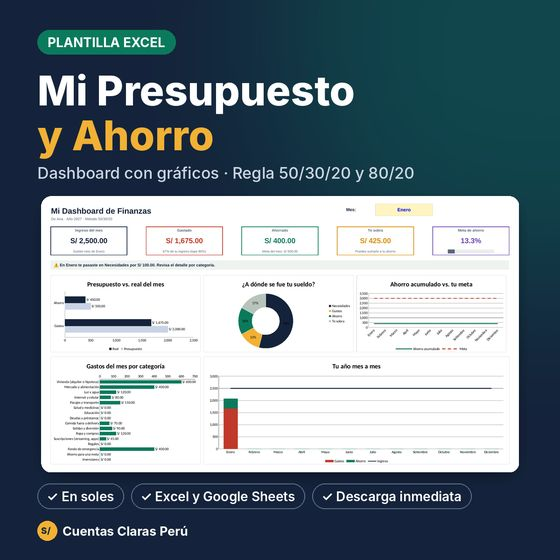
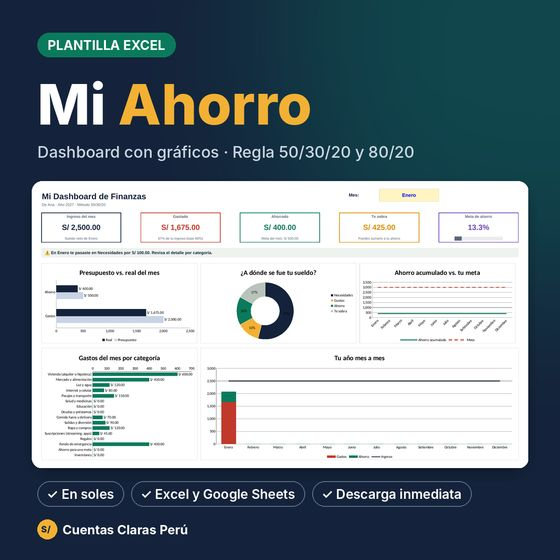
Renombra la plantilla a Mi Ahorro
Claude-Session: https://claude.ai/code/session_01QsUTepXjdCfjitVXFbThcR

Changed region(s): [[0.0304, 0.0304, 0.9714, 0.9714]]

diff --git a/guias/liquidacion-por-renuncia.html b/guias/liquidacion-por-renuncia.html
@@ -67,7 +67,7 @@
   <details><summary>¿Me pagan liquidación si renuncio?</summary><p>Sí. Renunciar no te quita la CTS, la gratificación ni las vacaciones que acumulaste. Lo único que no te toca al renunciar es la indemnización por despido.</p></details><details><summary>¿Hasta cuándo puedo reclamar?</summary><p>Tienes cuatro años desde tu último día de trabajo para reclamar beneficios impagos. Mientras antes reclames, más fácil es reunir las pruebas.</p></details><details><summary>¿Qué pasa si trabajé en una pequeña empresa o microempresa?</summary><p>Los montos cambian. En una pequeña empresa la CTS y la gratificación son la mitad y las vacaciones son de 15 días por año. En una microempresa no hay CTS ni gratificación. Nuestra calculadora tiene esas opciones.</p></details><details><summary>¿Tengo que firmar la liquidación si no estoy de acuerdo?</summary><p>Puedes firmarla indicando que la recibes "en disconformidad", así conservas tu derecho a reclamar la diferencia.</p></details>
 
   <section class="producto" aria-label="Plantilla de presupuesto">
-    <img src="../img/plantilla-presupuesto.jpg" alt="Plantilla Mi Presupuesto y Ahorro con dashboard" width="280" height="280" loading="lazy">
+    <img src="../img/plantilla-presupuesto.jpg" alt="Plantilla Mi Ahorro con dashboard" width="280" height="280" loading="lazy">
     <div class="producto-txt">
       <span class="g-tag">Plantilla Excel</span>
       <h2>Organiza tu sueldo con un dashboard</h2>

diff --git a/guias/gratificacion-diciembre-2026.html b/guias/gratificacion-diciembre-2026.html
@@ -70,7 +70,7 @@
   <details><summary>¿Me toca gratificación si renuncio antes de diciembre?</summary><p>Sí. Se llama gratificación trunca y te la pagan en tu liquidación, por cada mes completo trabajado en el semestre. Necesitas al menos un mes completo.</p></details><details><summary>¿Si trabajo con recibos por honorarios me toca?</summary><p>No, porque no estás en planilla. Pero si en la práctica cumples horario, recibes órdenes y trabajas solo para esa empresa, podrías tener una relación laboral encubierta y reclamarla ante SUNAFIL.</p></details><details><summary>¿Las faltas o los descansos médicos me restan?</summary><p>Las vacaciones y los descansos médicos pagados cuentan como tiempo trabajado. Las faltas injustificadas pueden reducir el monto.</p></details><details><summary>¿Qué pasa si mi sueldo cambió durante el semestre?</summary><p>Se usa el sueldo que tienes en el mes en que te pagan la gratificación.</p></details>
 
   <section class="producto" aria-label="Plantilla de presupuesto">
-    <img src="../img/plantilla-presupuesto.jpg" alt="Plantilla Mi Presupuesto y Ahorro con dashboard" width="280" height="280" loading="lazy">
+    <img src="../img/plantilla-presupuesto.jpg" alt="Plantilla Mi Ahorro con dashboard" width="280" height="280" loading="lazy">
     <div class="producto-txt">
       <span class="g-tag">Plantilla Excel</span>
       <h2>Organiza tu sueldo con un dashboard</h2>

diff --git a/guias/cts-como-calcular.html b/guias/cts-como-calcular.html
@@ -69,7 +69,7 @@
   <details><summary>¿Puedo retirar mi CTS?</summary><p>Las reglas de retiro cambian seguido por leyes temporales. Consulta en tu banco o caja cuánto puedes retirar hoy. Si te quedas sin trabajo, puedes retirar el total con la constancia de cese que te entrega tu empresa.</p></details><details><summary>¿Puedo elegir el banco?</summary><p>Sí. Tú eliges el banco o caja y se lo comunicas a tu empresa. También puedes cambiar tu CTS a otra entidad más adelante.</p></details><details><summary>¿Las horas extras cuentan?</summary><p>Sí, si las recibiste de forma regular. Se suma el promedio a tu base de cálculo.</p></details><details><summary>¿Qué pasa con la CTS si renuncio?</summary><p>La CTS acumulada desde tu último depósito se paga en tu liquidación como CTS trunca.</p></details>
 
   <section class="producto" aria-label="Plantilla de presupuesto">
-    <img src="../img/plantilla-presupuesto.jpg" alt="Plantilla Mi Presupuesto y Ahorro con dashboard" width="280" height="280" loading="lazy">
+    <img src="../img/plantilla-presupuesto.jpg" alt="Plantilla Mi Ahorro con dashboard" width="280" height="280" loading="lazy">
     <div class="producto-txt">
       <span class="g-tag">Plantilla Excel</span>
       <h2>Organiza tu sueldo con un dashboard</h2>

diff --git a/index.html b/index.html
@@ -257,11 +257,11 @@
 </section>
 
 <section class="producto" id="plantilla" aria-labelledby="t-plantilla">
-  <img src="img/plantilla-presupuesto.jpg" alt="Vista de la plantilla Mi Presupuesto y Ahorro con su dashboard de gráficos" width="280" height="280" loading="lazy">
+  <img src="img/plantilla-presupuesto.jpg" alt="Vista de la plantilla Mi Ahorro con su dashboard de gráficos" width="280" height="280" loading="lazy">
   <div class="producto-txt">
     <span class="g-tag">Plantilla Excel</span>
     <h2 id="t-plantilla">¿Ya sabes cuánto te toca? Ahora organízalo</h2>
-    <p>Con <strong>Mi Presupuesto y Ahorro</strong> anotas tus gastos y un dashboard con gráficos te muestra a dónde se va tu sueldo, en qué te pasaste y cuánto ahorrar cada mes para tu meta.</p>
+    <p>Con <strong>Mi Ahorro</strong> anotas tus gastos y un dashboard con gráficos te muestra a dónde se va tu sueldo, en qué te pasaste y cuánto ahorrar cada mes para tu meta.</p>
     <ul class="checks">
       <li>Regla 50/30/20 u 80/20, tú eliges</li>
       <li>Dashboard con 5 gráficos y alertas automáticas</li>
